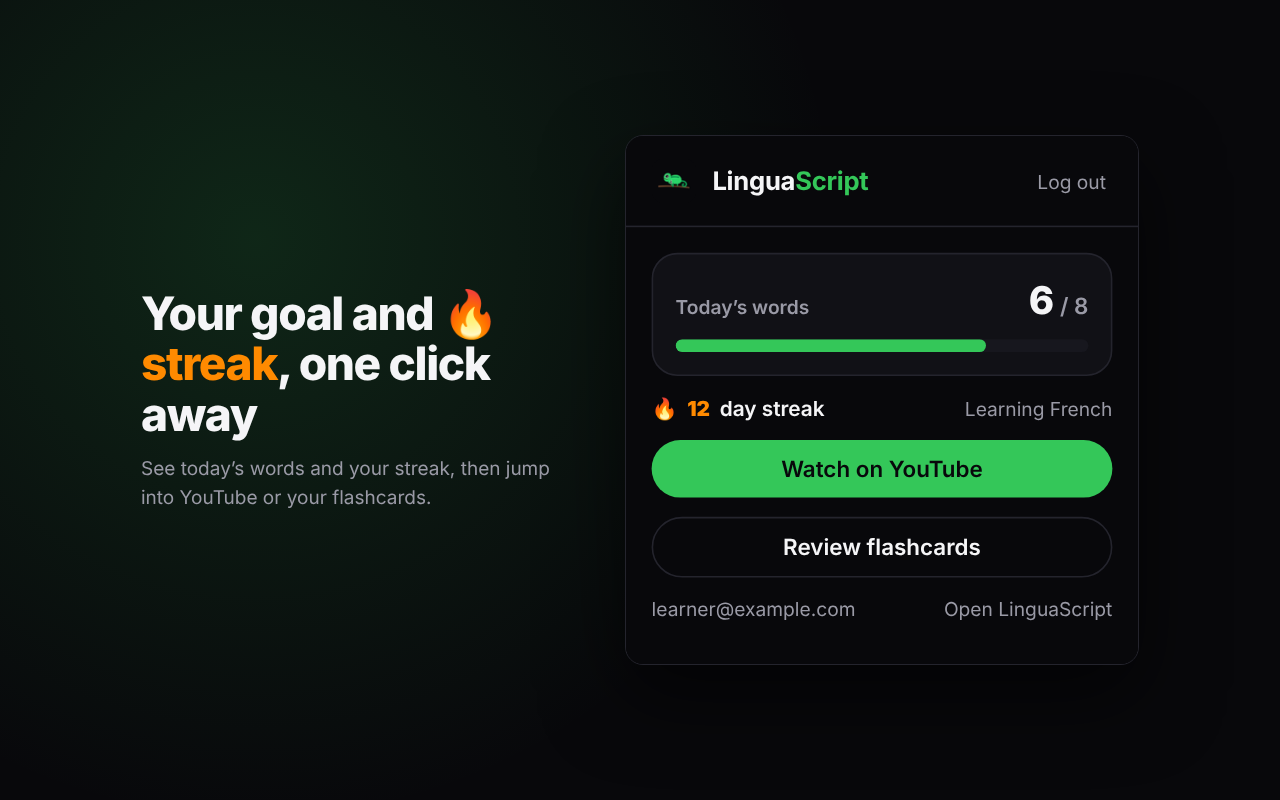
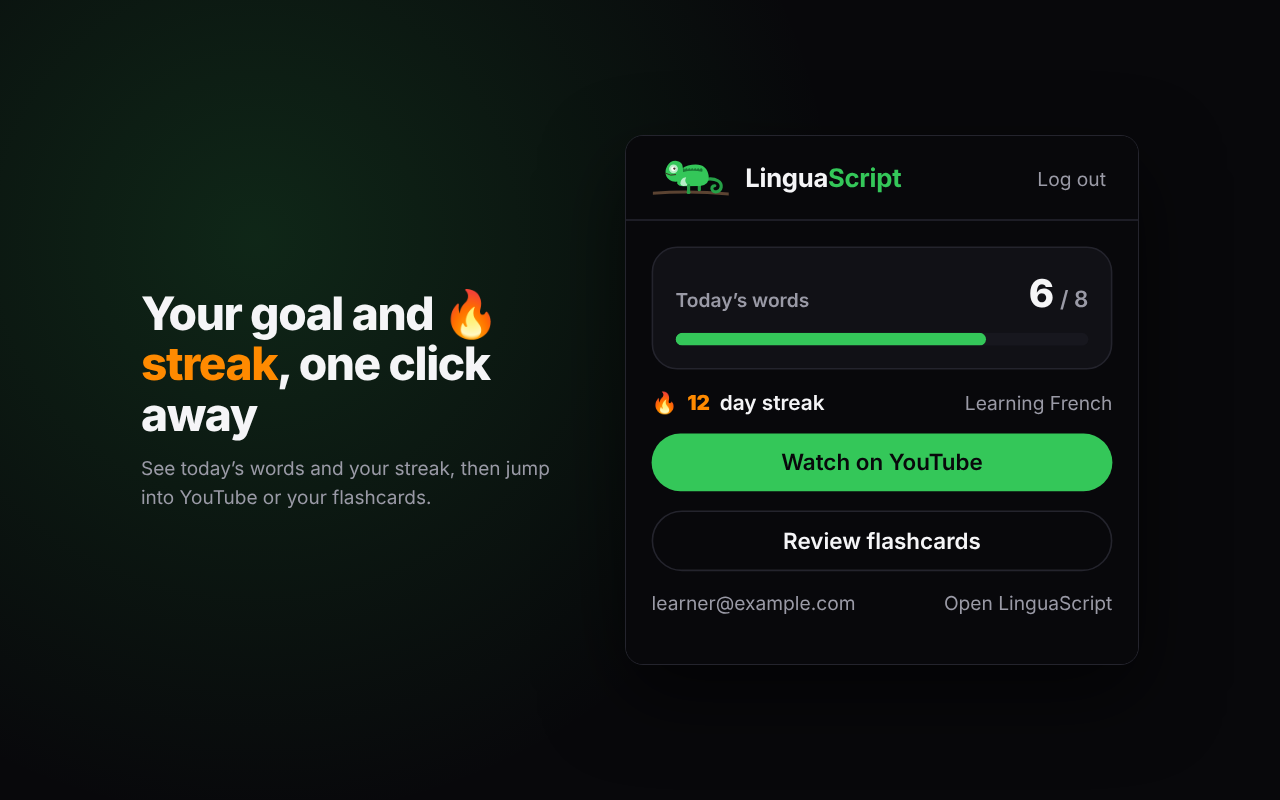
Sharp SVG chameleon everywhere
The logo, favicon and extension icons came from a small, blurry PNG
(favicon-512x512.png, chameleon ~130px wide). Now they're SVGs built from
the same art as the ChameleonMascot SVG:
- public/logo.svg (BrandMark, extension pop-up/welcome), public/favicon.svg,
  public/mascot/chameleon.svg (LandingPage3), extension/icons/icon.svg
- favicon.ico / 32 / 192 / 512 PNGs and extension icon PNGs re-rendered
  from the SVGs (only where browsers/Chrome need PNG)
- Loading chameleon uses the SVG mascot instead of three ~2MB PNGs
- Wordmark PNG on Onboarding/Landing5 replaced by BrandMark
- AGENTS.md rule: images are SVG from now on
- Store screenshots/promo tile re-rendered with the new logo

Claude-Session: https://claude.ai/code/session_01EsYvcsckhPrCKxLddGsZZr

diff --git a/src/components/ChameleonLoader.tsx b/src/components/ChameleonLoader.tsx
@@ -1,16 +1,17 @@
 import { useEffect, useState } from "react";
-import { AnimatePresence, motion } from "framer-motion";
-import red from "@/assets/brand/chameleon-red.png.asset.json";
-import orange from "@/assets/brand/chameleon-orange.png.asset.json";
-import green from "@/assets/brand/chameleon-green.png.asset.json";
+import { ChameleonMascot, type ChameleonTier } from "@/components/ChameleonMascot";
 
-const STAGES = [
-  { src: red.url, label: "Red", text: "New words you don't know yet", cls: "text-destructive" },
-  { src: orange.url, label: "Orange", text: "Words you're learning", cls: "text-accent" },
-  { src: green.url, label: "Green", text: "Words you understand", cls: "text-emerald-500" },
+const STAGES: { tier: ChameleonTier; label: string; text: string; cls: string }[] = [
+  { tier: "red", label: "Red", text: "New words you don't know yet", cls: "text-destructive" },
+  { tier: "orange", label: "Orange", text: "Words you're learning", cls: "text-accent" },
+  { tier: "green", label: "Green", text: "Words you understand", cls: "text-emerald-500" },
 ];
 
-/** Branded "The Chameleon Method" screen: the 2D chameleon turns red → orange → green. */
+/**
+ * Branded "The Chameleon Method" screen: the chameleon turns red → orange →
+ * green. Uses the SVG mascot (the skin colour fades between tiers), so it's
+ * sharp at any size and there's no image to download.
+ */
 export function ChameleonMark({ size = 112 }: { size?: number }) {
   const [i, setI] = useState(0);
   useEffect(() => {
@@ -18,19 +19,8 @@ export function ChameleonMark({ size = 112 }: { size?: number }) {
     return () => clearInterval(t);
   }, []);
   return (
-    <div className="relative" style={{ width: size, height: size }}>
-      <AnimatePresence mode="popLayout">
-        <motion.img
-          key={i}
-          src={STAGES[i].src}
-          alt="LinguaScript chameleon"
-          className="absolute inset-0 h-full w-full object-contain"
-          initial={{ opacity: 0, scale: 0.9 }}
-          animate={{ opacity: 1, scale: 1 }}
-          exit={{ opacity: 0 }}
-          transition={{ duration: 0.45 }}
-        />
-      </AnimatePresence>
+    <div className="flex items-center justify-center" style={{ width: size, height: size }}>
+      <ChameleonMascot tier={STAGES[i].tier} style={{ width: size }} />
     </div>
   );
 }

diff --git a/src/pages/Onboarding.tsx b/src/pages/Onboarding.tsx
@@ -10,7 +10,7 @@ import { Textarea } from "@/components/ui/textarea";
 import { Select, SelectContent, SelectItem, SelectTrigger, SelectValue, SelectSeparator } from "@/components/ui/select";
 import { LANGUAGES, getLanguageLabel } from "@/lib/languages";
 import { useAuth } from "@/hooks/useAuth";
-import brandLockup from "@/assets/brand/linguascript-wordmark.png.asset.json";
+import { BrandMark } from "@/components/BrandMark";
 import { supabase } from "@/integrations/supabase/client";
 import { useLanguage, PENDING_LANGUAGE_KEY } from "@/contexts/LanguageContext";
 import { useTour } from "@/contexts/TourContext";
@@ -240,7 +240,7 @@ const Onboarding = () => {
     <div className="min-h-screen bg-[#0b1215] text-white antialiased">
       <header className="sticky top-0 z-50 bg-[#0b1215]/90 backdrop-blur-xl border-b border-white/5">
         <div className="max-w-2xl mx-auto px-6 h-16 flex items-center justify-between">
-          <div className="flex items-center gap-3"><img src={brandLockup.url} alt="LinguaScript" className="h-6 w-auto" /><UiLanguageSwitcher /></div>
+          <div className="flex items-center gap-3"><BrandMark size={28} /><UiLanguageSwitcher /></div>
           {/* Dot pager, not a segmented bar — same idiom as the app's own
               mobile intro tour (mobile/app/tour.tsx). */}
           <div className="flex items-center gap-2">

diff --git a/src/pages/Landing5.tsx b/src/pages/Landing5.tsx
@@ -13,7 +13,7 @@ import { LineBlastDemo } from "@/components/LineBlastDemo";
 import { PlatformLogos } from "@/components/landing/PlatformLogos";
 import { DeckCards } from "@/components/landing/DeckCards";
 import { DECK } from "@/lib/deck-colors";
-import brandLockup from "@/assets/brand/linguascript-wordmark.png.asset.json";
+import { BrandMark } from "@/components/BrandMark";
 import quizletLogo from "@/assets/brand/quizlet.png.asset.json";
 import ankiLogo from "@/assets/brand/anki.png.asset.json";
 
@@ -250,12 +250,7 @@ const Landing5 = () => {
             <span className="text-white/40">Anki</span>
           </div>
           <div className="flex flex-wrap items-center justify-between gap-4">
-            <img
-              src={brandLockup.url}
-              alt="LinguaScript"
-              className="h-6 w-auto opacity-80"
-              loading="lazy"
-            />
+            <BrandMark size={28} className="opacity-80" />
             <div className="flex flex-wrap items-center gap-4 text-xs text-white/40">
               <a href="/privacy" className="hover:text-white/80 transition-colors">Privacy Policy</a>
               <a href="/terms" className="hover:text-white/80 transition-colors">Terms of Service</a>

diff --git a/src/pages/LandingPage3.tsx b/src/pages/LandingPage3.tsx
@@ -126,7 +126,7 @@ export default function LandingPage3() {
       {/* nav */}
       <header className="relative z-20 mx-auto flex max-w-7xl items-center justify-between px-6 py-5">
         <div className="flex items-center gap-2 text-lg font-extrabold tracking-tight">
-          <img src="/mascot/chameleon.png" alt="" className="h-8 w-8 object-contain" />
+          <img src="/mascot/chameleon.svg" alt="" className="h-8 w-8 object-contain" />
           Lingua<span style={{ color: BRAND }}>Script</span>
         </div>
         <nav className="hidden items-center gap-8 text-sm text-white/60 md:flex">
@@ -276,7 +276,7 @@ export default function LandingPage3() {
       </section>
 
       <footer className="relative z-10 border-t border-white/[0.06] py-10 text-center text-sm text-white/30">
-        <img src="/mascot/chameleon.png" alt="" className="mx-auto mb-3 h-8 w-8 object-contain opacity-70" />
+        <img src="/mascot/chameleon.svg" alt="" className="mx-auto mb-3 h-8 w-8 object-contain opacity-70" />
         © {new Date().getFullYear()} LinguaScript — turn the language green.
       </footer>
     </div>

diff --git a/extension/welcome.html b/extension/welcome.html
@@ -10,7 +10,7 @@
     .wrap { max-width: 760px; margin: 0 auto; padding: 48px 20px 64px; }
     header { margin-bottom: 40px; }
     .brand { font-size: 18px; }
-    .brand img { width: 36px; height: 36px; border-radius: 10px; }
+    .brand img { height: 34px; width: auto; }
     h1 { font-size: 40px; line-height: 1.1; letter-spacing: -0.03em; font-weight: 800; margin-bottom: 12px; }
     h1 .accent { color: var(--green); }
     .lead { font-size: 17px; color: var(--muted); line-height: 1.6; max-width: 560px; margin-bottom: 36px; }
@@ -38,7 +38,7 @@
 </head>
 <body>
   <div class="wrap">
-    <header><div class="brand"><img src="icons/icon128.png" alt="" /><span>Lingua<span class="script">Script</span></span></div></header>
+    <header><div class="brand"><img src="icons/logo.svg" alt="" /><span>Lingua<span class="script">Script</span></span></div></header>
 
     <h1>You’re ready to learn<br />with <span class="accent">YouTube</span>.</h1>
     <p class="lead">LinguaScript turns any YouTube video with subtitles into a language lesson. Here’s how it works in three quick steps.</p>

diff --git a/src/components/BrandMark.tsx b/src/components/BrandMark.tsx
@@ -19,15 +19,15 @@ export function BrandMark({ variant = "lockup", size = 40, className }: BrandMar
   return (
     <span className={cn("inline-flex items-center gap-2 select-none", className)}>
       <span
-        className="inline-flex shrink-0 items-center justify-center overflow-hidden"
+        className="inline-flex shrink-0 items-center justify-center"
         style={{ height: size, width: size }}
       >
         <img
-          src="/favicon-512x512.png"
+          src="/logo.svg"
           alt="LinguaScript"
           width={size}
           height={size}
-          className="h-full w-full scale-[1.7] object-contain drop-shadow-[0_2px_10px_rgba(52,199,89,0.35)]"
+          className="h-full w-full object-contain drop-shadow-[0_2px_10px_rgba(52,199,89,0.35)]"
         />
       </span>
       {variant === "lockup" && (

diff --git a/index.html b/index.html
@@ -6,7 +6,8 @@
     <title>LinguaScript — Learn Languages by Watching Films</title>
     <meta name="description" content="Paste any YouTube link and get interactive dual subtitles, instant translations, and flashcards. Learn languages naturally by watching real films and videos.">
     <meta name="author" content="LinguaScript" />
-    <link rel="icon" href="/favicon.ico" sizes="any" />
+    <link rel="icon" href="/favicon.ico" sizes="32x32" />
+    <link rel="icon" href="/favicon.svg" type="image/svg+xml" />
     <link rel="icon" href="/favicon-32x32.png" type="image/png" sizes="32x32" />
     <link rel="icon" href="/favicon-192x192.png" type="image/png" sizes="192x192" />
     <link rel="apple-touch-icon" href="/favicon-192x192.png" sizes="192x192" />

diff --git a/extension/brand.css b/extension/brand.css
@@ -41,7 +41,7 @@ body { background: var(--bg); color: var(--fg); font-family: var(--font); -webki
 a { color: inherit; }
 
 .brand { display: flex; align-items: center; gap: 10px; font-weight: 700; letter-spacing: -0.01em; }
-.brand img { width: 28px; height: 28px; border-radius: 8px; }
+.brand img { height: 24px; width: auto; }
 .brand .script { color: var(--green); }
 
 .btn {

diff --git a/extension/popup.html b/extension/popup.html
@@ -36,7 +36,7 @@
 </head>
 <body>
   <header>
-    <div class="brand"><img src="icons/icon48.png" alt="" /><span>Lingua<span class="script">Script</span></span></div>
+    <div class="brand"><img src="icons/logo.svg" alt="" /><span>Lingua<span class="script">Script</span></span></div>
     <button class="link-btn hidden" id="logout-btn">Log out</button>
   </header>
 

diff --git a/AGENTS.md b/AGENTS.md
@@ -3,3 +3,4 @@
 - UI translation uses the lightweight `src/i18n` (useT, STRINGS) keyed by profile native_language > device choice > browser language; why: reassure non-English beginners without a heavy i18n dependency.
 - Vocabulary-coverage thresholds (98 ideal / 95 min / 90 stretch) live only in src/lib/coverage.ts; why: one comprehensible-input rule across recommendations, labels and rails.
 - Untranslated UI text is machine-translated at runtime by src/i18n/AutoTranslate (translate-ui function, cached per language on device); mark learning-language text translate="no". Why: switching native language must change the whole app without hand-translating every screen.
+- Website and extension images (logos, mascot, icons, illustrations) are SVG; the chameleon comes from public/logo.svg / favicon.svg (same art as ChameleonMascot). PNG/ICO only where a platform requires it (favicon.ico, apple-touch, Chrome manifest icons), rendered from the SVG — never upscaled from a small PNG. Why: the blurry favicon PNG made the logo and extension icons fuzzy.
